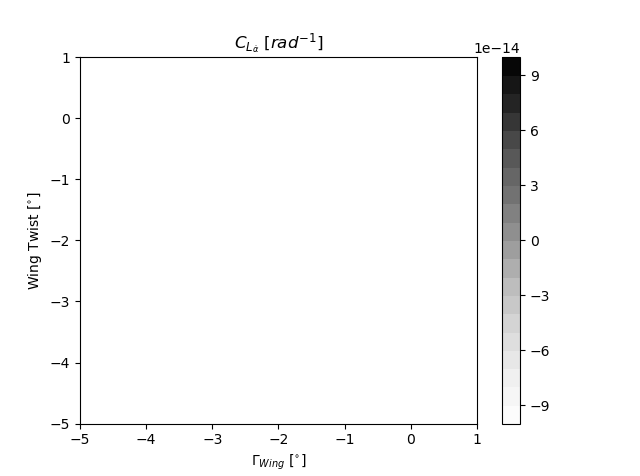
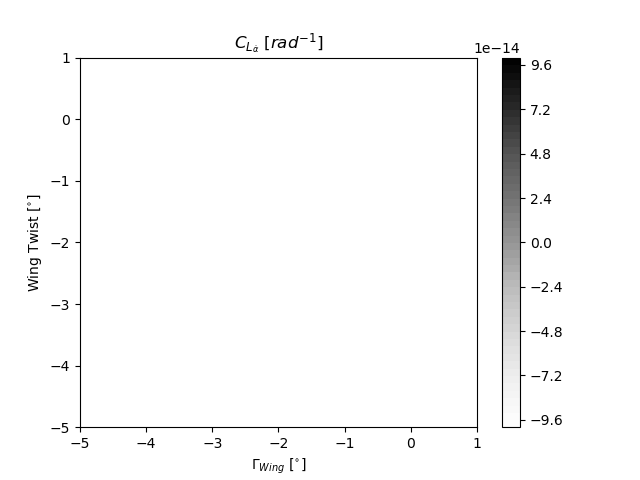
Imrove sensitivity analysis DATCOM

diff --git a/A22DSE/Models/DATCOM/Current/datcomconvertermatlab.py b/A22DSE/Models/DATCOM/Current/datcomconvertermatlab.py
@@ -33,8 +33,8 @@ def PrintMatlab(Aircraft):
     
     ALIH=round(float(0),1)
     XV=round(float(Layout.x_apex_vt/Conversion.ft2m),1)
-    ZV=round(float(0),1)
     
+   
     NX=round(float(4),1)
     #X='[0.0,4.0,8.7,64.5,78.7]'
     #ZU='[0.0,2.6,2.6,2.6]'
@@ -49,6 +49,7 @@ def PrintMatlab(Aircraft):
     h=((Layout.w_fuselage-Layout.h_fuselage)/(Layout.w_fuselage-Layout.h_fuselage))**2
     P=np.round(np.array([0.0,np.pi*(Layout.h_fuselage+Layout.w_fuselage)/2*(1+3*h/(10+np.sqrt(4-3*h))),\
                              np.pi*(Layout.h_fuselage+Layout.w_fuselage)/2*(1+3*h/(10+np.sqrt(4-3*h))),Layout.h_APU*np.pi])/Conversion.ft2m,1)
+    ZV=round(float(ZU[-1]),1)
     CHRDTP_WG=round(float(anfp.c_t/Conversion.ft2m),1)
     SSPN_WG = round(float(anfp.b/2/Conversion.ft2m),1)
     SSPNE_WG = 0.9*SSPN_WG
@@ -63,7 +64,7 @@ def PrintMatlab(Aircraft):
     SSPN_HT = round(float(Layout.bh/2/Conversion.ft2m*2),1)
     SSPNE_HT=0.9*SSPN_HT
     CHRDR_HT = round(float(Layout.c_rht/Conversion.ft2m),1)
-    SAVSI_HT = round(float(Layout.sweep25ht),1)
+    SAVSI_HT = round(float(Layout.sweep25ht*180/np.pi),1)
     CHSTAT_HT = 0.25
     TWISTA_HT = round(float(Aircraft.ParAnFP.twht),10)
     DHDADI_HT = round(float(Aircraft.ParAnFP.dhht),10)
@@ -72,10 +73,11 @@ def PrintMatlab(Aircraft):
     SSPN_VT = round(float(Layout.bv/2/Conversion.ft2m*2),1)
     SSPNE_VT=0.9*SSPN_VT
     CHRDR_VT = round(float(Layout.c_rvt/Conversion.ft2m),1)
-    SAVSI_VT = round(float(Layout.Sweep25vt),1)
-    CHSTAT_VT = 0.25
-    
+    SAVSI_VT = round(float(Layout.sweepLEvt*180/np.pi),1)
+    CHSTAT_VT = 0.0
     ZH=round(float(ZV+SSPN_VT),1)
+    
+    
     #print(DHDADI_WG,TWISTA_WG,DHDADI_HT,TWISTA_HT)
     for line in lines[50:96]:
         if line[:2]=='XW':
@@ -526,6 +528,7 @@ def GetDerivatives(Aircraft,speed): #'fast' or 'slow' speed input
     
     
                 C_l_q,C_m_q=np.array(dataline[1:3]).astype(float)
+                
 #                y=np.array(['C_L_adot','C_m_adot', 'C_l_p','C_Y_p','C_n_p','C_n_r','C_l_r','C_l_q','C_m_q'])
 #                z=C_L_adot,C_m_adot, C_l_p,C_Y_p,C_n_p,C_n_r,C_l_r,C_l_q,C_m_q=np.round(np.array([C_L_adot,C_m_adot, C_l_p,C_Y_p,C_n_p,C_n_r,C_l_r,C_l_q,C_m_q])*180/np.pi,5)
                 #print(C_L_adot,C_m_adot, C_l_p,C_Y_p,C_n_p,C_n_r,C_l_r,C_l_q,C_m_q,j)

diff --git a/A22DSE/Models/DATCOM/Current/PlotDatcom3d_CERES.m b/A22DSE/Models/DATCOM/Current/PlotDatcom3d_CERES.m
@@ -49,51 +49,51 @@ SPANFI_E=0;SPANFO_E=0;CHRDFI_E=0;CHRDFO_E=0;DELTA_E=0;                %%
 %%% INPUT PARAMETERS BELOW %%%%%%%%%%%%%%%%%%%%%%%%%%%%%%%%%%%%%%%%%%%%%
 
 % SYNTHS parameters
-XW=69.7;
-ZW=5.7;
+XW=76.0;
+ZW=6.0;
 ALIW=0.0;
-XH=170.5;
-ZH=19.1;
+XH=195.0;
+ZH=25.2;
 ALIH=0.0;
-XV=162.9;
-ZV=0.0;
+XV=171.6;
+ZV=6.0;
 
 % BODY parameters
 NX=4.0;
-X=[0.,18.9,49.,169.8];
-ZU=[0.,5.7,5.7,5.7];
-ZL=[0.,-5.7,-5.7,5.4];
-R=[0.,10.,10.,0.3];
-S=[0.,178.9,178.9,0.3];
+X=[0.,19.7,51.3,189.5];
+ZU=[0.,6.,6.,6.];
+ZL=[0.,-6.,-6.,5.6];
+R=[0.,10.4,10.4,0.3];
+S=[0.,195.9,195.9,0.3];
 
 % WING parameters
-CHRDTP_WG=9.4;
-SSPNE_WG=89.46000000000001;
-SSPN_WG=99.4;
-CHRDR_WG=21.2;
+CHRDTP_WG=9.6;
+SSPNE_WG=91.98;
+SSPN_WG=102.2;
+CHRDR_WG=21.8;
 SAVSI_WG=28.7;
 CHSTAT_WG=0.0;
-TWISTA_WG=-4.3684210526;
-DHDADI_WG=-4.3684210526;
+TWISTA_WG=0.0;
+DHDADI_WG=0.0;
 TC_WG=0.12;
 
 % HORIZONTAL TAIL parameters
 CHRDTP_HT=4.0;
-SSPNE_HT=61.65;
-SSPN_HT=68.5;
+SSPNE_HT=63.63;
+SSPN_HT=70.7;
 CHRDR_HT=11.5;
-SAVSI_HT=0.5;
+SAVSI_HT=31.4;
 CHSTAT_HT=0.25;
 TWISTA_HT=0.0;
 DHDADI_HT=0.0;
 
 % VERTICAL TAIL parameters
-CHRDTP_VT=11.5;
-SSPNE_VT=17.19;
-SSPN_VT=19.1;
-CHRDR_VT=17.8;
-SAVSI_VT=39.0;
-CHSTAT_VT=0.25;
+CHRDTP_VT=11.6;
+SSPNE_VT=17.28;
+SSPN_VT=19.2;
+CHRDR_VT=17.9;
+SAVSI_VT=50.7;
+CHSTAT_VT=0.0;
 
 % WING FLAP
 % $SYMFLP FTYPE=1.0,NDELTA=4.0,

diff --git a/A22DSE/Models/DATCOM/Current/sensitivity.py b/A22DSE/Models/DATCOM/Current/sensitivity.py
@@ -21,7 +21,7 @@ from A22DSE.Models.DATCOM.Current.datcomconvertermatlab import GetDerivatives
 
 parameter='C_D_0'
 steps=20
- #runtime approx. par_class_conv time (approx 5) + steps^2*0.25 sec
+
 dihedralrange = np.linspace(-5,1,steps)
 twistrange = np.linspace(-5,1,steps)
 
@@ -66,7 +66,7 @@ for parameter in parameters:
     data=data[1:]
     
     plt.clf()
-    plt.contourf(dihedralrange,twistrange,data,cmap='Greys',levels=20)
+    plt.contourf(dihedralrange,twistrange,data,cmap='Greys',levels=50)
     plt.colorbar()
     plt.title(title)
     

diff --git a/A22DSE/Models/def_Collection_ClassII_Sizing.py b/A22DSE/Models/def_Collection_ClassII_Sizing.py
@@ -132,9 +132,11 @@ def ClassIISizing(Aircraft):
     
     
     Layout.x_apex_wing = Layout.x_lemac-anfp.y_MAC*np.tan(anfp.Sweep_LE)
-    Layout.x_apex_ht = Layout.x_lemach-Layout.y_MACh*np.tan(Layout.sweepLEht)
+    
     Layout.x_apex_vt = Layout.x_lemacv-Layout.y_MACv*np.tan(Layout.sweepLEvt)
+    Layout.x_apex_ht = Layout.x_apex_vt+Layout.bv*np.tan(Layout.sweepLEvt)
     Layout.x_begin_emp = Layout.l_nose+Layout.l_cabin
+    Layout.l_fuselage=Layout.x_apex_vt+Layout.c_rvt
     #engine selection
     EngineChoice(Aircraft,ISA_model,False)
     

diff --git a/A22DSE/Models/DATCOM/Current/sensitivityhtail.py b/A22DSE/Models/DATCOM/Current/sensitivityhtail.py
@@ -20,7 +20,6 @@ from A22DSE.Models.DATCOM.Current.datcomconvertermatlab import GetDerivatives
 parameter='C_D_0'
 
 steps=20
- #runtime approx. par_class_conv time (approx 5) + steps^2*0.25 sec
 
 
 dihedralrange = np.linspace(-3,3,steps)
